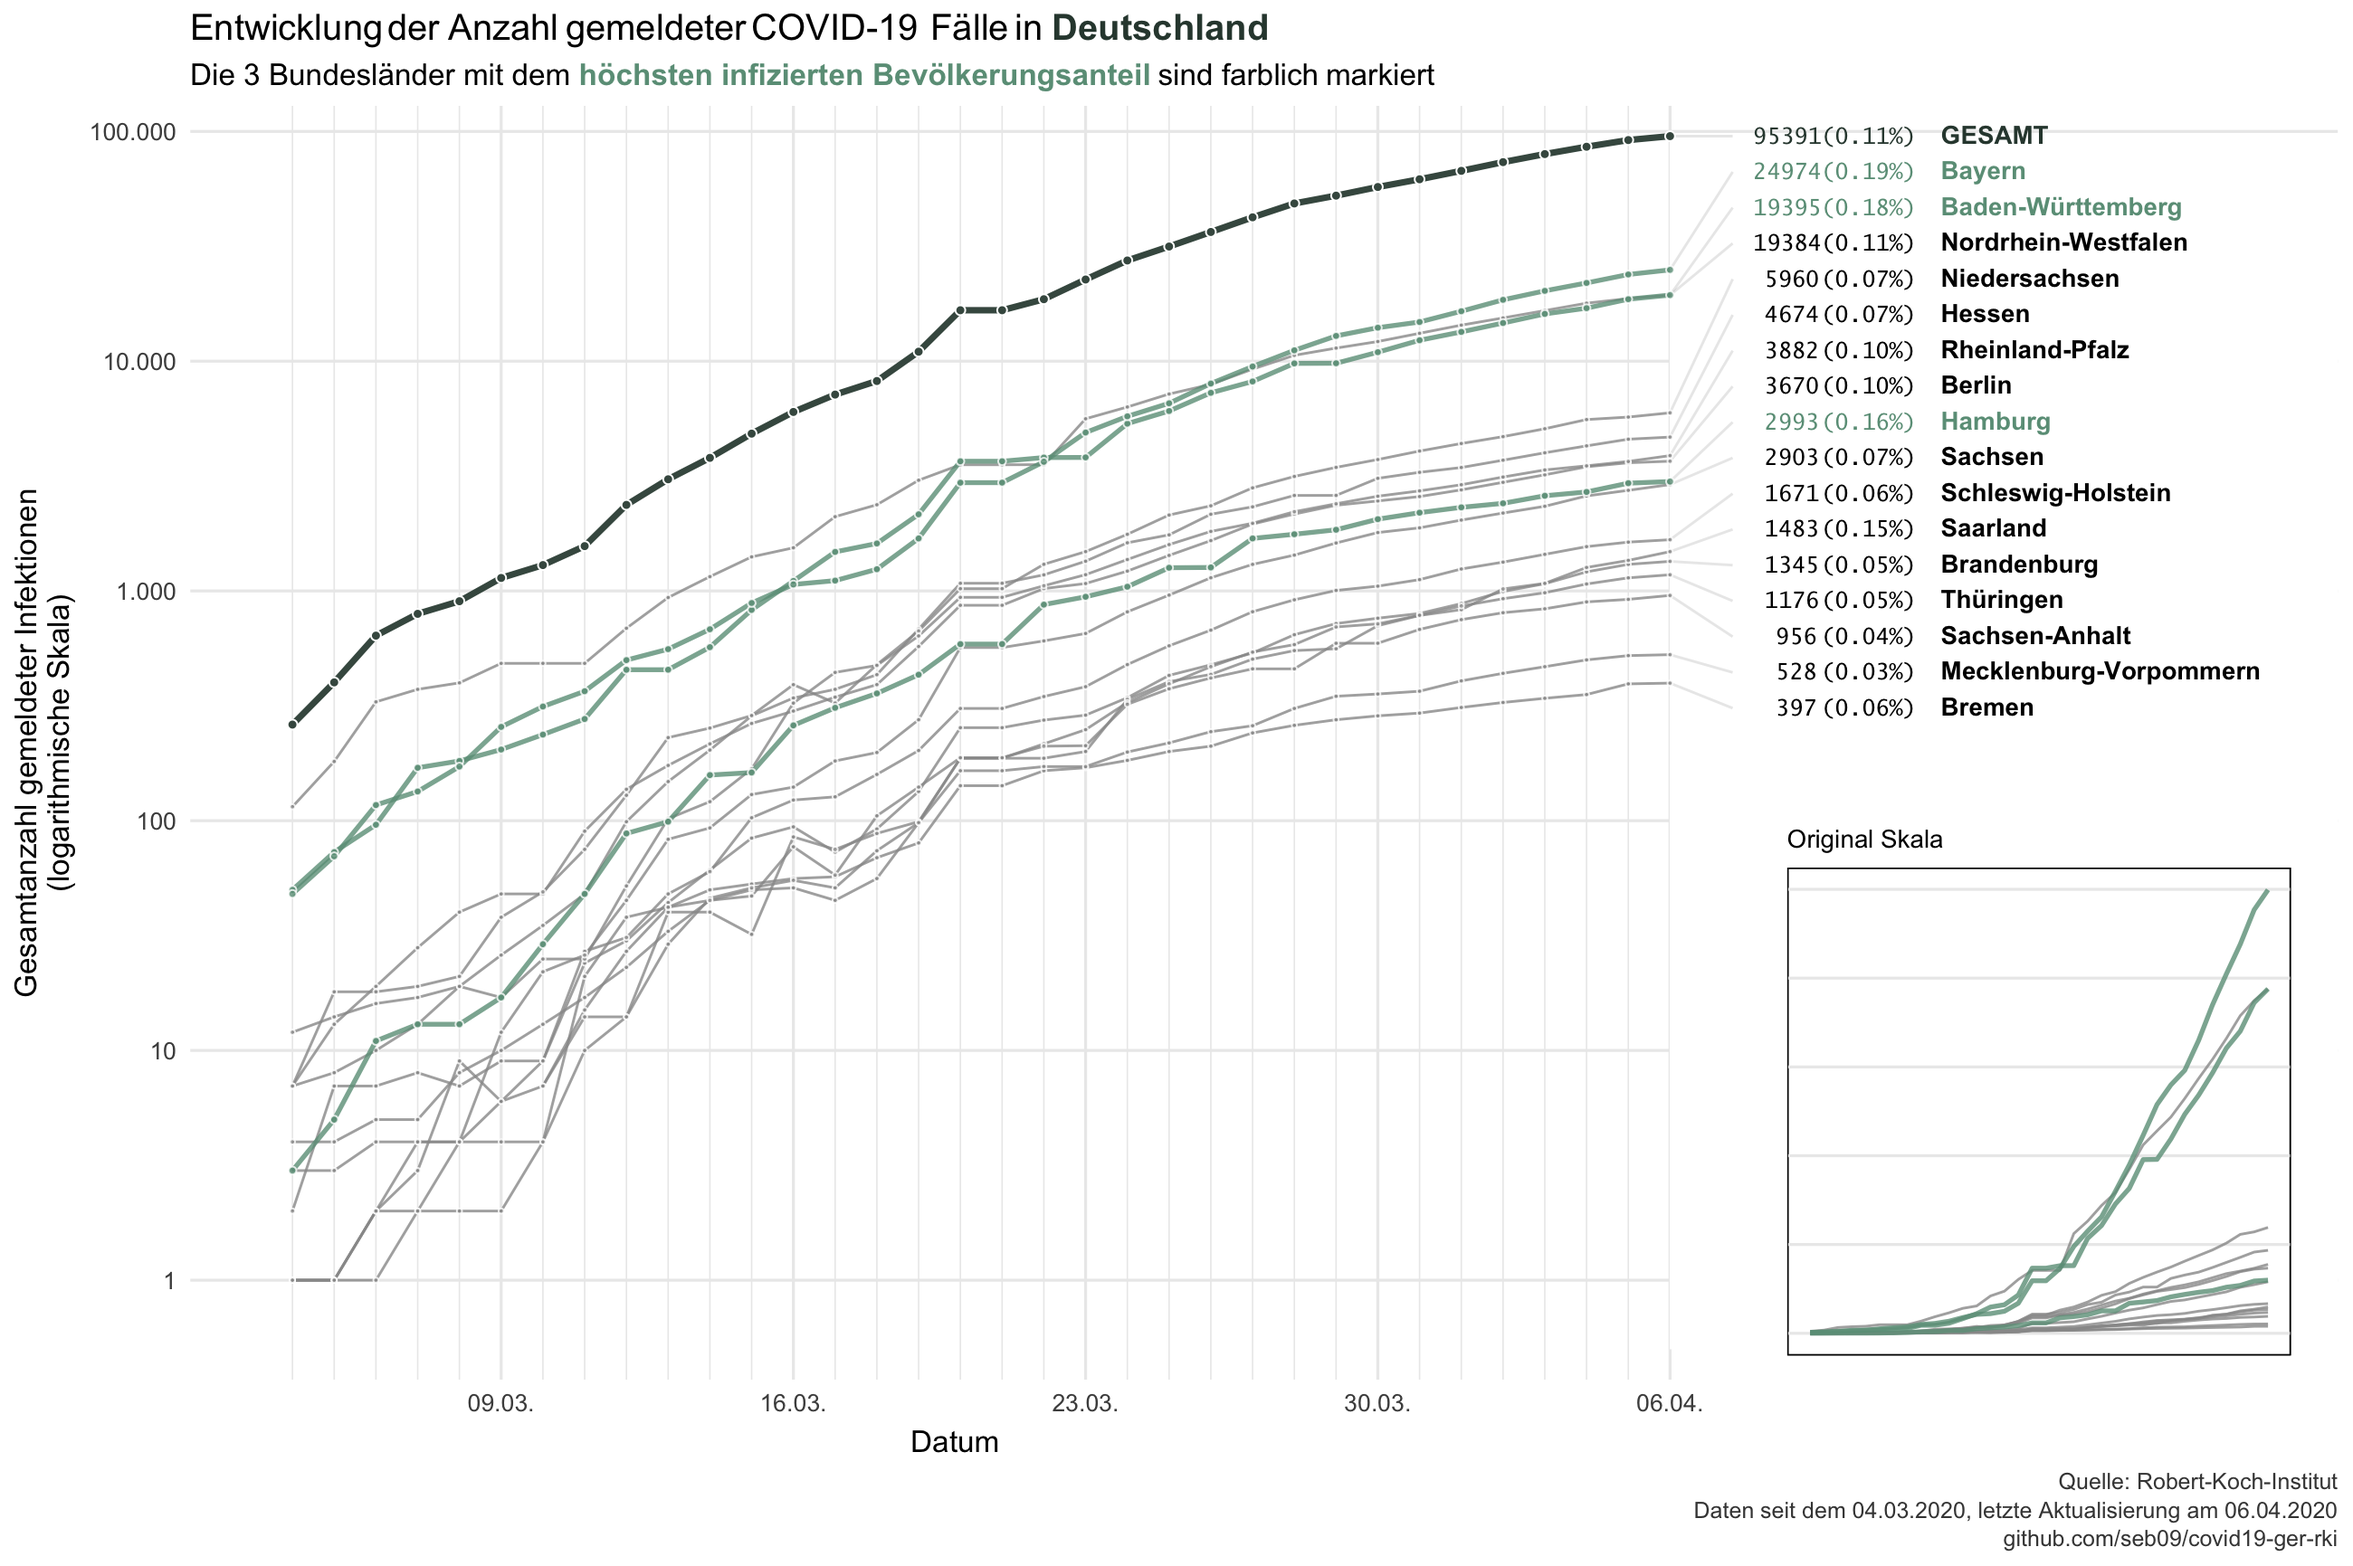
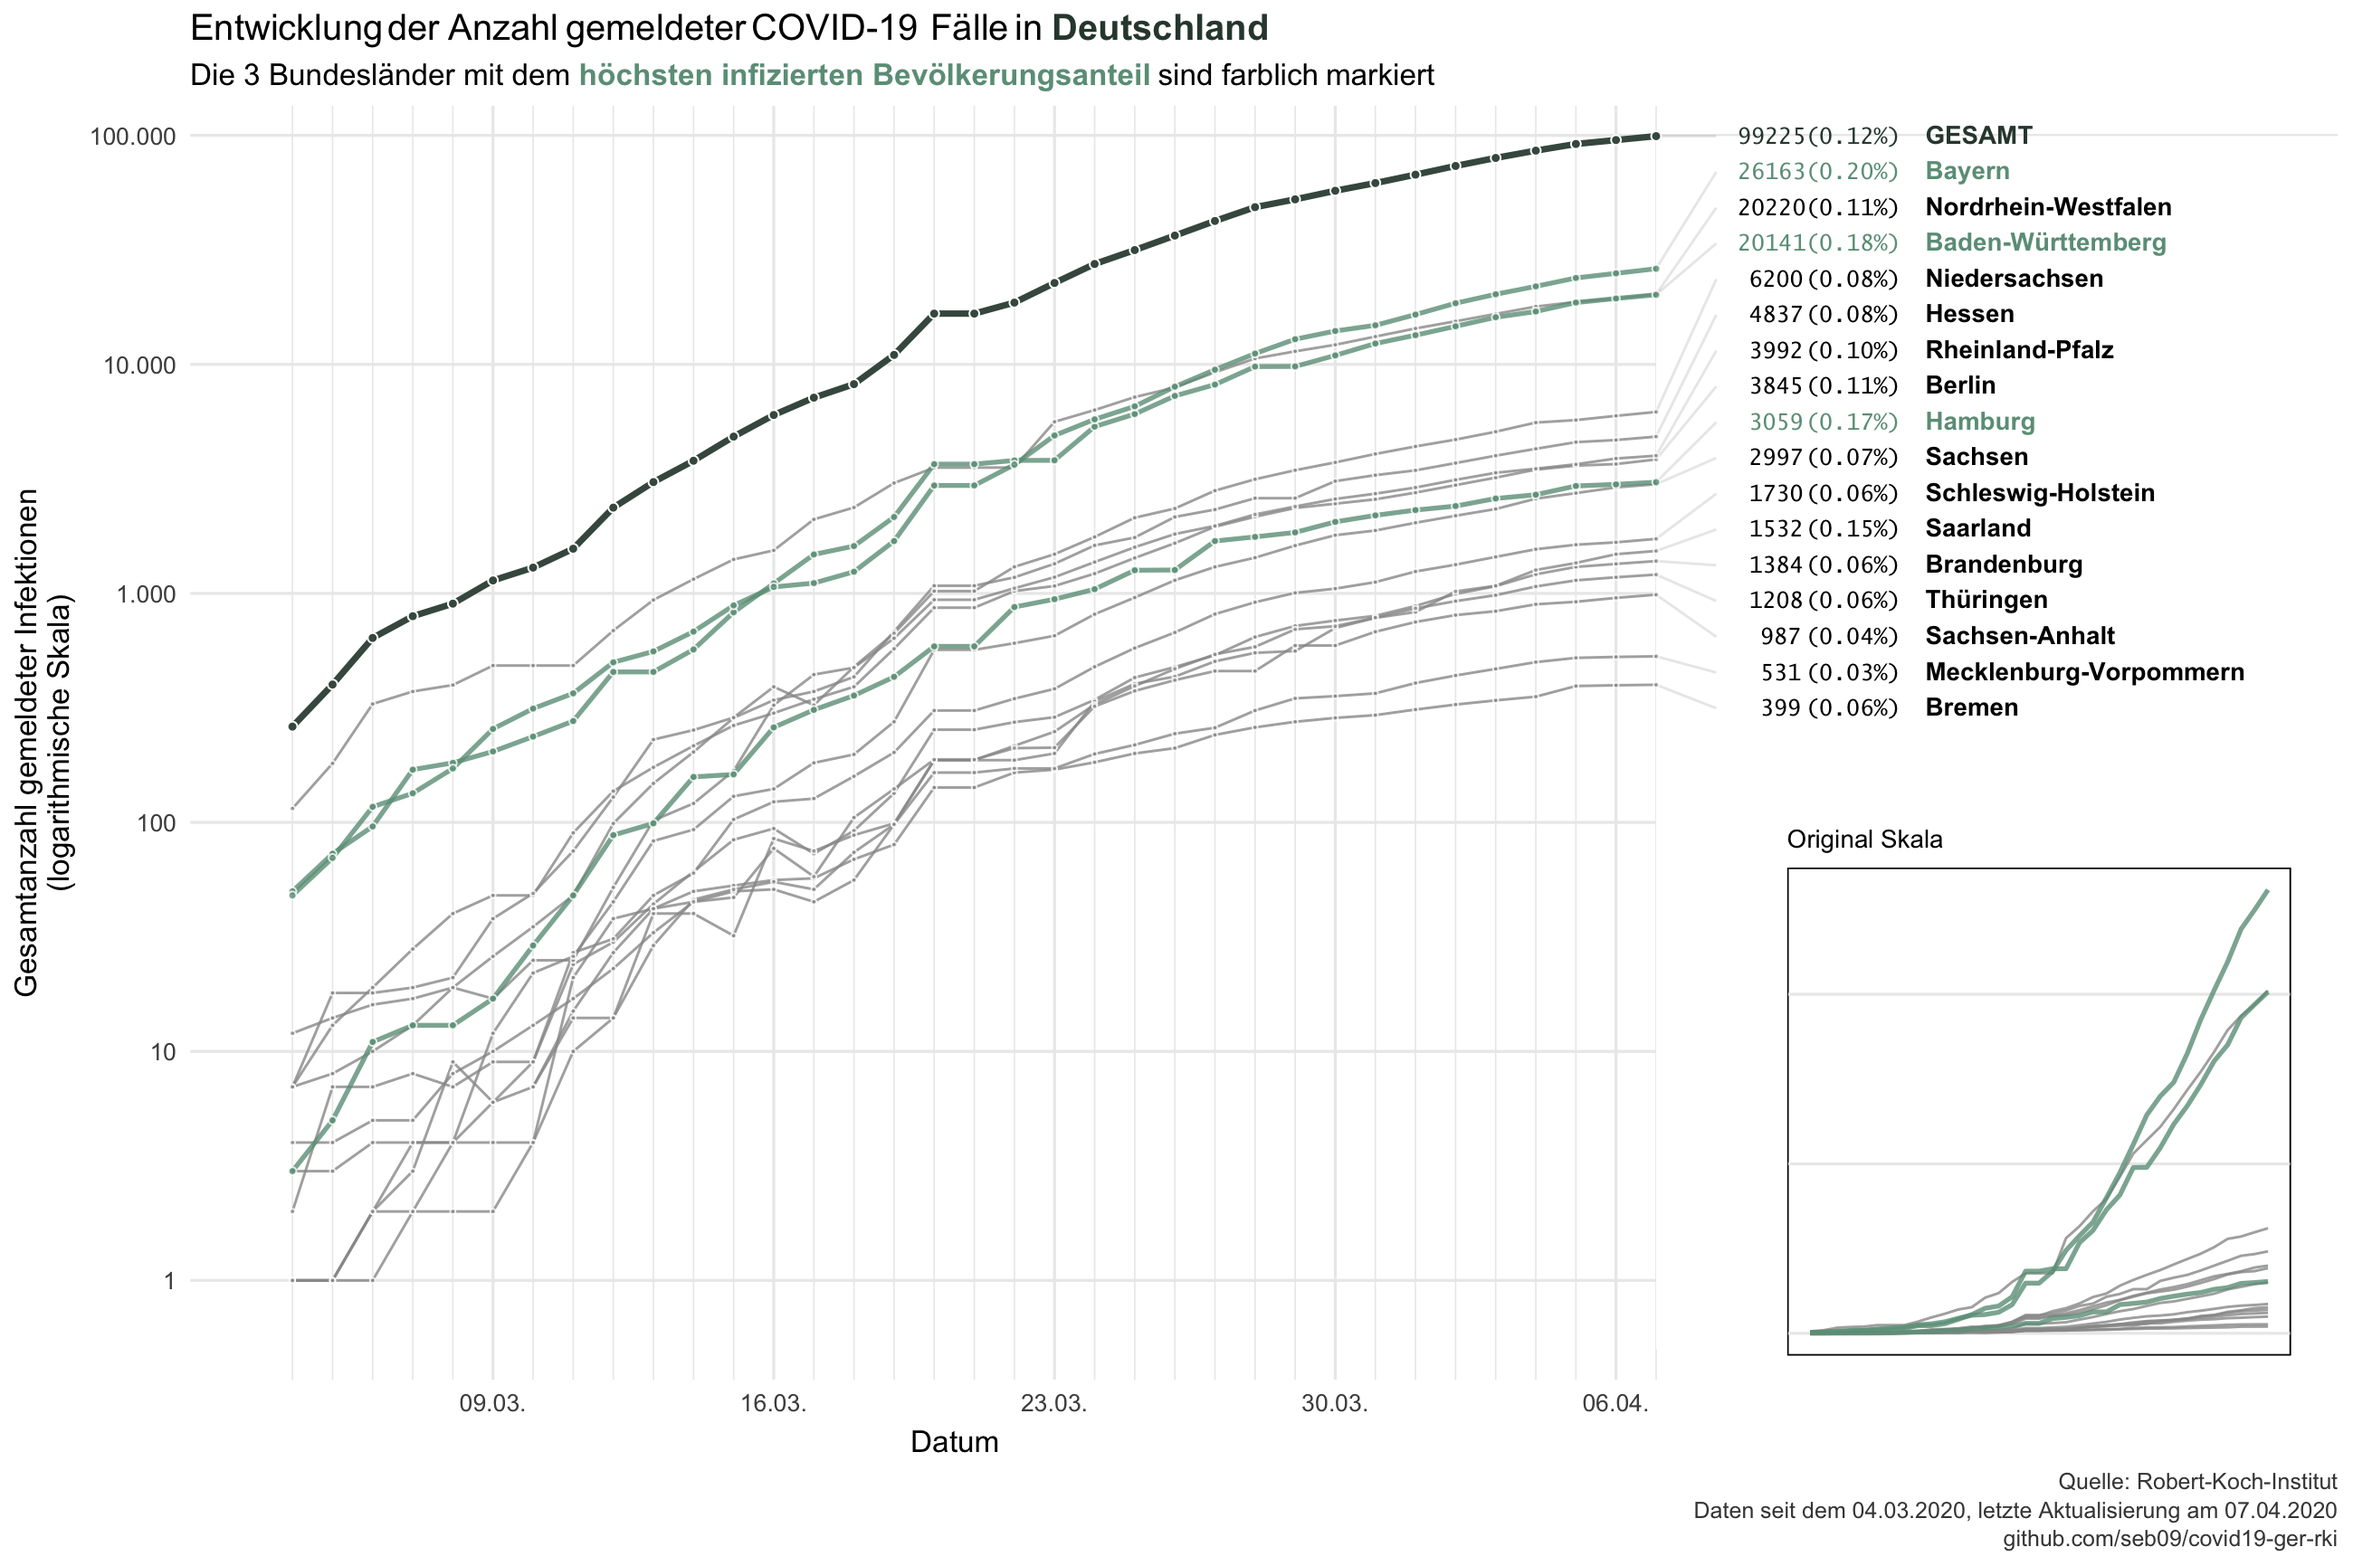
daily update 2020-04-07

diff --git a/README.md b/README.md
@@ -1,6 +1,6 @@
 Data from the Robert-Koch-Institut on COVID-19 in Germany
 ================
-Last update: 2020-04-06
+Last update: 2020-04-07
 
 This repository contains data on reported COVID-19 cases in Germany and
 its federal states that is published daily by the Robert-Koch-Institut
@@ -14,26 +14,26 @@ corona_rki %>%
   print(n = 16)
 ```
 
-    ## # A tibble: 538 x 6
+    ## # A tibble: 554 x 6
     ##    Datum      Bundesland      Fallzahl Todeszahl Fallzahl_neu Todeszahl_neu
     ##    <date>     <chr>              <dbl>     <dbl>        <dbl>         <dbl>
-    ##  1 2020-04-06 Baden-Württemb…    19395       387          781            20
-    ##  2 2020-04-06 Bayern             24974       437         1128            41
-    ##  3 2020-04-06 Berlin              3670        26           57             2
-    ##  4 2020-04-06 Brandenburg         1345        19           40             2
-    ##  5 2020-04-06 Bremen               397         8            3             2
-    ##  6 2020-04-06 Hamburg             2993        19           48             0
-    ##  7 2020-04-06 Hessen              4674        61           99             5
-    ##  8 2020-04-06 Mecklenburg-Vo…      528         6            5             1
-    ##  9 2020-04-06 Niedersachsen       5960        92          248             3
-    ## 10 2020-04-06 Nordrhein-West…    19384       255          649            10
-    ## 11 2020-04-06 Rheinland-Pfalz     3882        32          219             0
-    ## 12 2020-04-06 Saarland            1483        14          125             0
-    ## 13 2020-04-06 Sachsen             2903        34          162             2
-    ## 14 2020-04-06 Sachsen-Anhalt       956        12           37             0
-    ## 15 2020-04-06 Schleswig-Hols…     1671        20           40             2
-    ## 16 2020-04-06 Thüringen           1176        12           36             2
-    ## # … with 522 more rows
+    ##  1 2020-04-07 Baden-Württemb…    20141       433          746            46
+    ##  2 2020-04-07 Bayern             26163       481         1189            44
+    ##  3 2020-04-07 Berlin              3845        28          175             2
+    ##  4 2020-04-07 Brandenburg         1384        20           39             1
+    ##  5 2020-04-07 Bremen               399         9            2             1
+    ##  6 2020-04-07 Hamburg             3059        20           66             1
+    ##  7 2020-04-07 Hessen              4837        73          163            12
+    ##  8 2020-04-07 Mecklenburg-Vo…      531         8            3             2
+    ##  9 2020-04-07 Niedersachsen       6200       111          240            19
+    ## 10 2020-04-07 Nordrhein-West…    20220       282          836            27
+    ## 11 2020-04-07 Rheinland-Pfalz     3992        34          110             2
+    ## 12 2020-04-07 Saarland            1532        16           49             2
+    ## 13 2020-04-07 Sachsen             2997        38           94             4
+    ## 14 2020-04-07 Sachsen-Anhalt       987        12           31             0
+    ## 15 2020-04-07 Schleswig-Hols…     1730        24           59             4
+    ## 16 2020-04-07 Thüringen           1208        18           32             6
+    ## # … with 538 more rows
 
 Data is downloaded each day at 11am from the [website of the
 RKI](https://www.rki.de/DE/Content/InfAZ/N/Neuartiges_Coronavirus/Fallzahlen.html)
